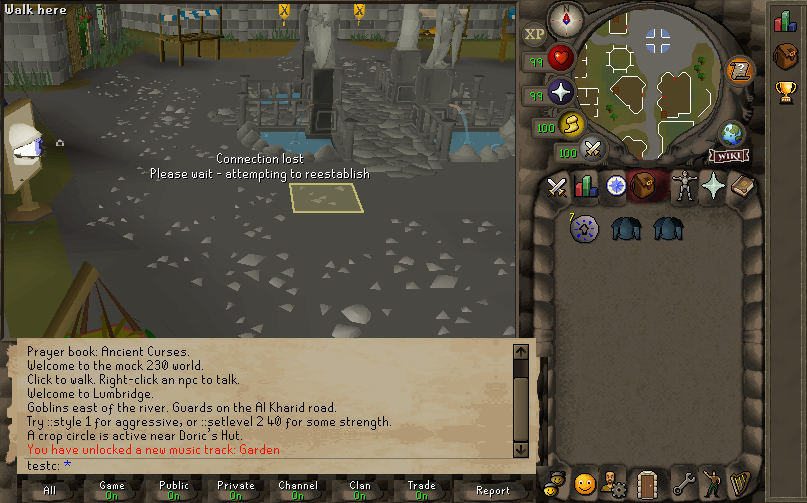
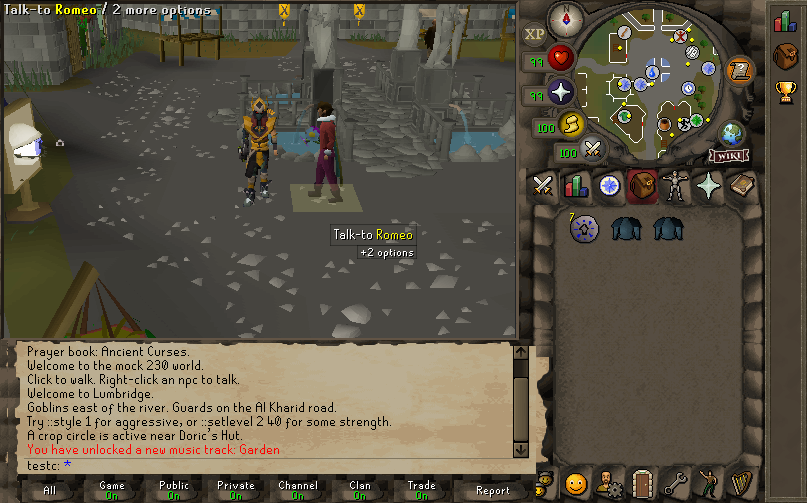
shots: nxt-highlight's CS2 tile re-taken, and a stale capture can fail now
NXTHL-TILE-CS2-STALE-PREFIX-548 is real, and it is not in the plugin. Nothing
in `src/` was wrong when the defect was written: the two pictures were.

`plugins/nxthl-tile-cs2.png` and its control were shot at 21:31 and 22:02 with
the `83c75b410` binary. `190648c80` -- a tile border is the cache's thickness,
and 0 is no border -- landed at 22:32, and `74fc1f13f` -- the parked pointer
stopped costing a session -- at 22:35. Neither re-took them. So the headline
picture of nxt-highlight went on showing a hard opaque rim around a group the
cache states at `outline=0`, over a session the net watch had torn down, and a
day later both repaired bugs were re-reported off that picture. The run
directories date it: `runs/nxthl-tile-cs2` is stamped before either fix, and
the two commits are stamped after it.

Re-taken with the same drive on a binary built from this tree. `plugins.ini`
and `preferences.ini` of the new runs diff CLEAN against the old ones, so the
binary is the only variable:

                                          pre-fix   re-taken
  unblended 0xBEBA6E over the frame         389         0
  the tile interior, px (293,200)     (105,103,78) (105,103,78)
  the same px in the CONTROL            (74,72,67)  (74,72,67)
  pure white in the viewport band          649         0
    y150..220 -- the banner's text

The first row is the rim the cache switched off. The second says the WASH
survived removing it, which is what separates "the border is gone" from "the
[…]

diff --git a/tools/porcelain_gate/shots/shot_rules.py b/tools/porcelain_gate/shots/shot_rules.py
@@ -1,0 +1,183 @@
+#!/usr/bin/env python3
+"""What a tracked capture has to be TRUE of, measured rather than remembered.
+
+A capture in `plugins/` is read as a statement about how the client behaves
+now.  Nothing made that true.  A shot is a file, a fix lands in `src/`, and the
+file goes on showing the repaired bug until somebody re-takes it -- at which
+point the picture is evidence FOR a defect that no longer exists, and the next
+reader opens it and re-reports what was fixed a day earlier.
+
+That is not hypothetical and it is not rare.  `nxthl-tile-cs2.png` and its
+control were taken at 21:31 and 22:02; `190648c80` (the tile border is the
+cache's thickness, and 0 is no border) landed at 22:32 and `74fc1f13f` (the
+parked pointer stopped costing a session) at 22:35.  Neither re-took them, so
+for a day the headline picture of nxt-highlight showed a hard opaque rim around
+a group whose thickness is zero, over a torn-down session -- two fixed bugs,
+photographed as though they were live, and re-reported as NXTHL-TILE-CS2-
+STALE-PREFIX-548.
+
+So the measurement that closed a defect becomes a ROW here.  The row is cheap,
+it runs in a second, and it fails in both directions that matter:
+
+  * the pixel comes back  -- the fix regressed;
+  * the pixel never comes -- the shot is stale, or was taken with the plugin
+    off, or the drive stopped exercising it.
+
+Every rule is stated against the CACHE's own numbers, which is what makes it a
+rule and not a hash of a picture.  `NATIVE_HIGHLIGHT kind=7 group=5
+colour=beba6e outline=0 opacity=70 flags=10` says: a wash at 70/255 and NO
+border.  The two rules that follow are exactly those two halves, and they are
+both needed -- a plugin that drew nothing at all satisfies "no border" and
+fails "the wash is there", which is the whole reason the positive rule is
+written down next to the negative one.
+
+    python3 shot_rules.py              # every rule, fails on the first miss
+    python3 shot_rules.py --list       # what is pinned, and why
+"""
+
+import argparse
+import os
+import sys
+
+from PIL import Image
+
+HERE = os.path.dirname(os.path.abspath(__file__))
+PLUGINS = os.path.join(HERE, "plugins")
+
+# The hovered-tile group, read off the run log rather than guessed:
+#   NATIVE_HIGHLIGHT kind=7 group=5 colour=beba6e outline=0 opacity=70 flags=10
+HOVER_TILE_RGB = (0xBE, 0xBA, 0x6E)
+# The lane's ground under that tile, and the same ground washed at 70/255:
+#   74 + (190 - 74) * 70 / 255 = 105, and so on per channel.
+LANE_GROUND = (74, 72, 67)
+HOVER_TILE_WASHED = (105, 103, 78)
+# One pixel INSIDE the hovered tile (x289..363 y183..212 on the CS2 lane), far
+# enough from every edge that a one-pixel difference in the projection cannot
+# move it off the face.
+HOVER_TILE_INSIDE = (293, 200)
+
+# The viewport band the teardown banner's text crossed.  White is the right
+# probe because the world raster never produces it: the 3D pass shades every
+# face, so a pure 255/255/255 run here is UI text over the scene, and the only
+# UI text that lands there is "Connection lost / Attempting to reestablish".
+VIEWPORT_BAND = (0, 150, 505, 220)
+
+
+def rule_pixel(image, x, y, rgb):
+    """This pixel is exactly this colour."""
+    got = image.getpixel((x, y))[:3]
+    if got == tuple(rgb):
+        return None
+    return "pixel (%d,%d) is %s, want %s" % (x, y, got, tuple(rgb))
+
+
+def rule_colour_absent(image, rgb, box=None):
+    """No pixel in `box` (default: the whole frame) is exactly this colour."""
+    region = image if box is None else image.crop(box)
+    want = tuple(rgb)
+    hits = [
+        (x, y)
+        for y in range(region.height)
+        for x in range(region.width)
+        if region.getpixel((x, y))[:3] == want
+    ]
+    if not hits:
+        return None
+    origin = (0, 0) if box is None else (box[0], box[1])
+    first = [(x + origin[0], y + origin[1]) for x, y in hits[:6]]
+    return "%d pixels are exactly %s; first %s" % (len(hits), want, first)
+
+
+# shot -> list of (rule, kwargs, why).  `why` is the sentence a reader gets
+# when the rule fails, so it says what the pixel MEANS, never what it is.
+RULES = {
+    "nxthl-tile-cs2.png": [
+        (
+            rule_colour_absent,
+            dict(rgb=HOVER_TILE_RGB),
+            "the hovered-tile group states outline=0, so no pixel anywhere may be "
+            "its colour at full strength. 389 of them were the rim 190648c80 "
+            "removed; a capture with any is pre-fix or a regression",
+        ),
+        (
+            rule_pixel,
+            dict(x=HOVER_TILE_INSIDE[0], y=HOVER_TILE_INSIDE[1], rgb=HOVER_TILE_WASHED),
+            "and the WASH survives: the same group states opacity=70, so the tile's "
+            "interior is the lane's ground blended 70/255 toward beba6e. Without "
+            "this, a plugin that drew nothing at all would satisfy the rule above",
+        ),
+        (
+            rule_colour_absent,
+            dict(rgb=(255, 255, 255), box=VIEWPORT_BAND),
+            "and the session is ALIVE: pure white across the viewport is the "
+            "'Connection lost' banner, which the parked-pointer teardown put over "
+            "every TORIRS_SIM_HOVER capture until 74fc1f13f. 649 such pixels in "
+            "the pre-fix pair, none in any capture since",
+        ),
+    ],
+    "nxthl-tile-none-cs2.png": [
+        (
+            rule_pixel,
+            dict(x=HOVER_TILE_INSIDE[0], y=HOVER_TILE_INSIDE[1], rgb=LANE_GROUND),
+            "the control is the same drive with nxt-highlight OFF, so this pixel is "
+            "bare ground. It is what makes the shot's washed value the PLUGIN's "
+            "doing rather than the lane's: a control that is already washed cannot "
+            "tell the two apart",
+        ),
+        (
+            rule_colour_absent,
+            dict(rgb=(255, 255, 255), box=VIEWPORT_BAND),
+            "and the control was taken against a live session too -- a torn-down "
+            "control is not a control, it is a second picture of the teardown",
+        ),
+    ],
+}
+
+
+def check(shot, rules):
+    path = os.path.join(PLUGINS, shot)
+    # A rule whose capture is gone is a FAILURE, never a skip: "the file moved"
+    # and "the file is fine" must not print the same thing.
+    assert os.path.exists(path), path
+    image = Image.open(path).convert("RGB")
+    failures = []
+    for rule, kwargs, why in rules:
+        problem = rule(image, **kwargs)
+        if problem is not None:
+            failures.append((rule.__name__, problem, why))
+    return failures
+
+
+def main():
+    parser = argparse.ArgumentParser(description=__doc__)
+    parser.add_argument("--list", action="store_true")
+    args = parser.parse_args()
+
+    if args.list:
+        for shot, rules in sorted(RULES.items()):
+            print(shot)
+            for rule, kwargs, why in rules:
+                print("    %-20s %s" % (rule.__name__, why))
+        return 0
+
+    bad = 0
+    total = 0
+    for shot, rules in sorted(RULES.items()):
+        total += len(rules)
+        failures = check(shot, rules)
+        for name, problem, why in failures:
+            bad += 1
+            print("FAIL %s: %s" % (shot, problem))
+            print("     %s" % why)
+    if bad:
+        print()
+        print("shot rules: FAIL -- %d of %d" % (bad, total))
+        print("Re-take the capture, or repair what moved. A rule here is a "
+              "measurement that closed a defect.")
+        return 1
+    print("shot rules: PASS -- %d rules over %d captures" % (total, len(RULES)))
+    return 0
+
+
+if __name__ == "__main__":
+    sys.exit(main())

diff --git a/tools/porcelain_gate/shots/README.md b/tools/porcelain_gate/shots/README.md
@@ -240,7 +240,13 @@ PAR_JOBS=1 zsh par.sh jobs/<file>.txt
 python3 vs_control.py plugins/control-<lane>.png plugins/<shot>.png
 python3 zoom.py <in.png> <out.png> <x> <y> <w> <h> [scale]
 python3 detail_lengths.py
+python3 shot_rules.py          # what a tracked capture has to still be true of
 ```
+
+`shot_rules.py` is the one of those that can FAIL. Everything else here makes a
+picture; it re-measures the numbers that closed a defect, so a capture that has
+gone stale — or a fix that has come undone — stops being something a reader has
+to notice and becomes something a gate says.
 
 `jobs/` is the drive for every shot, with the reason for each in place. The
 five things that cost a run each to learn, so nobody pays for them twice:
@@ -300,10 +306,49 @@ one of them has to be re-taken before it can be read. The tile indicator's
 eleven are done — `tileind-{c,lua}-{cs2,cs1,live}`, `tile-{c,lua}-all-{cs2,cs1}`,
 `pair-tiles`, `toggle-tile-off`, and `tileind-c-cs2-before.png` is the same
 drive on a binary built before the fix, kept as the picture of what the bug
-looked like. These SEVEN are still pre-fix and belong to their own plugins'
-owners: `itemstats-hover-cs2`, `itemstats-hover-cs1`, `itemstats-live`,
-`nxthl-hover-cs2`, `nxthl-hover-cs1`, `nxthl-tile-cs2`, `nxthl-live`. Re-taking
-one is its job row and nothing else.
+looked like. `nxthl-tile-cs2` and its control `nxthl-tile-none-cs2` are done
+too — see below, because that pair was pre-fix TWICE over and is the reason
+`shot_rules.py` exists. These FIVE are still pre-fix and belong to their own
+plugins' owners: `itemstats-hover-cs2`, `itemstats-hover-cs1`,
+`itemstats-live`, `nxthl-hover-cs2`, `nxthl-hover-cs1`, `nxthl-live`.
+Re-taking one is its job row and nothing else.
+
+### `nxthl-tile-{cs2,none-cs2}` — two fixes photographed as live bugs
+
+The pair was taken at 21:31 and 22:02 with the `83c75b410` binary. `190648c80`
+(a tile border is the cache's thickness, and 0 is no border) landed at 22:32
+and `74fc1f13f` (the parked pointer stopped costing a session) at 22:35, and
+neither re-took them. So the headline picture of nxt-highlight showed a hard
+opaque rim around a group the cache states at `outline=0`, over a session the
+net watch had torn down — both already repaired, both re-reported off the
+picture a day later as `NXTHL-TILE-CS2-STALE-PREFIX-548`.
+
+Re-taken here with the same drive on a binary built from this tree — the
+`plugins.ini` and `preferences.ini` of the new runs `diff` clean against the
+old ones, so the BINARY is the only variable on that axis. The control had no
+job row at all and had to be reconstructed from its run directory before it
+could be re-taken; it has one in `jobs/reruns.txt` now, beside the shot's.
+Measured rather than admired:
+
+| | pre-fix pair | re-taken pair |
+|---|---|---|
+| unblended `0xBEBA6E` in the frame | **389** | **0** |
+| the tile's interior, px (293,200) | `(105,103,78)` | `(105,103,78)` |
+| the same px in the CONTROL | `(74,72,67)` | `(74,72,67)` |
+| pure white in the viewport band `y150..220` | **649** | **0** |
+
+The first row is the rim; the second says the WASH survived it, which is the
+half that separates "the border is gone" from "the plugin stopped drawing";
+the third is what makes the control a control; the fourth is the teardown
+banner's text. An A/A pair — two runs, the same ini, the same binary — moves
+nothing in the tile band and reproduces every other difference between shot and
+control, so the entity and minimap deltas are run-to-run and only the tile is
+the plugin's.
+
+All four measurements are pinned in `shot_rules.py`, which fails on the pre-fix
+pair with three of its five rules and passes on the re-taken one. A measurement
+that closed a defect belongs in a file that runs, not in a paragraph.
+
 hover the wrong tile.** FIXED -- both halves were in `frame_loop_teardown`, and
 any shot older than that fix which was driven with `TORIRS_SIM_HOVER` shows one
 or both. They are worth knowing by sight, because that is how you date a shot:
